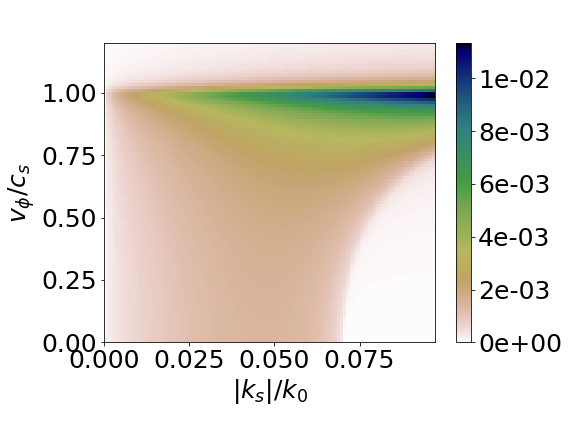
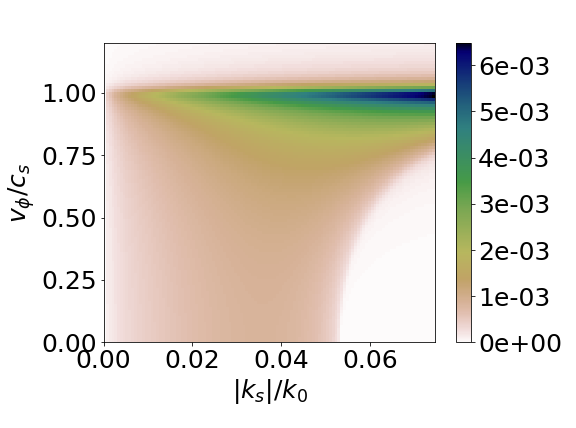
Updates from Overleaf

diff --git a/main.tex b/main.tex
@@ -16,7 +16,8 @@
 \usepackage{ stmaryrd }
 \begin{document}
 
-\title{Comparison between the fluid and kinetic frameworks for   addressing the growth of the filamentation or forward Brillouin instabilities}
+\title{ 
+Forward scattering of  laser in the hydrodynamic and kinetic frameworks }
 \author{C. Ruyer}\email{charles.ruyer@cea.fr}
 \affiliation{CEA, DAM, DIF, F-91297 Arpajon, France}
 \author{M. Grech}
@@ -39,7 +40,7 @@
 \section{Introduction}
 The SI unit system is used throughout this study and vectors are noted in bold symbols. 
 
-\section{Spatial growth of a forward diffused wave}
+\section{Spatial growth of the  forward scattering of a plane wave}\label{sec:plane}
 \subsection{Fluid and kinetic general dispersion relation}
 The simplest way to obtain the growth of the forward scattering of a light wave propagating in a plasma consists in combining in combining the perturbed Maxwell equations with a linearized plasma response, which can be either kinetic or fluid.
 We aim at deriving and comparing in this section both frameworks.
@@ -91,9 +92,10 @@ Note that we have  applied the so-called non-local correction [Eq. \eqref{eq:nl}
 From the combination of  Eqs. \eqref{eq:max2} with \eqref{eq:fd}, 
 for $D_\pm= (\omega_s-\omega_0)^2 - \omega_{pe}^2 -( \mathbf{k}_s-\mathbf{k}_0) ^2c^2 $, ensues
 \begin{equation}\label{eq:dispe}
-    D_+D_- = -\omega_{0}^2\alpha_{k/f}A_k\frac{\delta n_0}{n_c} (D_++D_-) \, ,
+    D_+D_- = -\frac{\omega_{0}^2}{2}\alpha_{k/f}A_k\frac{\delta n_0}{n_c} (D_++D_-) \, ,
 \end{equation}
 with $\delta n_0/n_c = (n_{e0}/n_c) \epsilon_0E_0^2/(n_c T_e)$.
+Note that we neglected the terms in $\delta n_e(\omega_s \pm 2\omega_0)$.
 In the kinetic framework, the above equation corresponds to Eq. (36) of Ref. \cite[]{POF_Cohen_79} in the limit $\vert k_s \lambda_{Di} \vert \ll 1$. In the fluid framework, these equations were derived in Refs. \cite[]{Kruer,phd_Michel,phd-Grech} \textcolor{red}{(?)}.
 
 \subsection{Spatial growth of the filamentation and of the forward Brillouin instability}
@@ -104,14 +106,14 @@ D_\pm = -\mathbf{k}_s^2c^2\pm 2(\omega_s\omega_0 - \mathbf{k}_s\cdot\mathbf{k}_0
 Equation \eqref{eq:dispe} thus becomes 
 \begin{equation}\label{eq:dispe2} 
 (\omega_s\omega_0 - \mathbf{k}_s\cdot\mathbf{k}_0 c^2)^2
-=\frac{\mathbf{k}_s^2c^2}{4}\left( \mathbf{k}_s^2c^2 - 2\omega_{pe}^2\alpha_{k/f}(v_\phi)A_k\frac{\delta n_0}{n_c} \right) 
+=\frac{\mathbf{k}_s^2c^2}{4}\left( \mathbf{k}_s^2c^2 - \omega_{0}^2\alpha_{k/f}(v_\phi)A_k\frac{\delta n_0}{n_c} \right) 
 \, .
 \end{equation}
 
 The spatial growth of the filamentation instability may be recovered when $\omega_s$=0 and assuming a $\mathbf{k}_s = k_s \hat{\mathbf{x}} +i\Gamma_F \hat{\mathbf{y}}$ ($\hat{\mathbf{x}}=\mathbf{k}_0 /\vert \mathbf{k}_0 \vert $ and  $\hat{\mathbf{y}}$  are unity vectors in the $x$ and $y$ directions respectively), and 
 \begin{equation}\label{eq:gf} 
 \Gamma_F^2
-=\frac{\mathbf{k}_s^2c^2}{4}\left( 2\omega_{0}^2\alpha_{k/f}(0)A_k\frac{\delta n_0}{n_c}- \mathbf{k}_s^2c^2 \right) 
+=\frac{\mathbf{k}_s^2c^2}{4}\left( \omega_{0}^2\alpha_{k/f}(0)A_k\frac{\delta n_0}{n_c}- \mathbf{k}_s^2c^2 \right) 
 \, .
 \end{equation}
 Note that $\alpha_f(0)=1$ and $\alpha_k(0)=Z_iT_e/(Z_iT_e+T_i)$.
@@ -121,13 +123,13 @@ $ k_{sx}$ and $k_{sy}$ purely real and complex respectively. Equation \eqref{eq:
 \begin{equation}\label{eq:dispe3} 
 \left(\frac{v_\phi}{\eta c} - 
 \frac{ k_{sx}}{\vert \mathbf{k}_s\vert }\right)^2
-=\frac{1}{4} \left( \frac{\mathbf{k}_s^2}{k_0^2} - 2\alpha_{k/f}(v_\phi)A_k\frac{\delta n_0}{\eta^2n_c} \right) 
+=\frac{1}{4} \left( \frac{\mathbf{k}_s^2}{k_0^2} - \alpha_{k/f}(v_\phi)A_k\frac{\delta n_0}{\eta^2n_c} \right) 
 \, ,
 \end{equation}
 where $\eta=\sqrt{1-n_{e0}/n_c}$ is the refraction index.
 Hence, $u =  k_{sx}/\vert \mathbf{k}_s\vert $ is solution of the following second order polynomial equation, 
 \begin{equation}\label{eq:dispe2poly} 
-u^2 -2\frac{v_\phi}{\eta c}u +\frac{v_\phi^2}{\eta^2 c^2}-\frac{1}{4}\left( \frac{\mathbf{k}_s^2}{k_0^2} - 2\alpha_{k/f}(v_\phi)A_k\frac{\delta n_0}{\eta^2n_c} \right) =0 
+u^2 -2\frac{v_\phi}{\eta c}u +\frac{v_\phi^2}{\eta^2 c^2}-\frac{1}{4}\left( \frac{\mathbf{k}_s^2}{k_0^2} - \alpha_{k/f}(v_\phi)A_k\frac{\delta n_0}{\eta^2n_c} \right) =0 
 \, .
 \end{equation}
 To leading order in  $\Im(k_{sx})/\vert \mathbf{k}_s\vert $ (where $\Im$ and $\Re$ are the imaginary and real part of a complex), $\vert \mathbf{k}_s\vert$ and $v_\phi$ may be considered to be purely real.
@@ -164,9 +166,86 @@ Kinetic (a,b) and fluid (c,d) resolution of Eq. \eqref{eq:dispe2poly} for  $I_0 
 \end{figure}
 Figures \ref{fig:dispe}(a-c)  illustrates the real and imaginary part of $k_{sx}/k_0$, solution of Eq. \eqref{eq:dispe2poly} as a function of the phase speed and of the wavevector amplitude, in both the kinetic (a,b) and fluid framework (c,d). The filamentation limit is recovered at $v_\phi=0$ and care has been taken to verify that, when $T_i\ll Z_iT_e$, both frameworks con\"incide. Moreover, in both calculations, $\Re[k_{sx}(v_\phi=0)]$ is vanishing as expected from the filamentation instability. As $v_\phi$ increases, one starts to enter in the forward Brillouin instability domain which peaks, for the mono-ion species case of Fig. \ref{fig:dispe}, around $(\vert k_s\vert/k_0, v_\phi/c_s) \simeq(0.03,1)$. Additionally, in both cases, the forward Brillouin spatial maximum  growth dominates the filamentation one. In the fluid framework, a much more peaked growth spectrum around  $ v_\phi/c_s\sim 1 $ is evidenced compared to the kinetic calculations. 
 
-Interestingly, the kinetic calculation allows to consider multiple ion plasmas such as CH  illustrated in Fig. \ref{fig:dispeCH}. In the fluid framework, we are usually constrained to use the averaged-ion approximation, which gives in the case of the fourwad Brillouin, qualitatively different behavior as the spatial growth peaks at $v_\phi/c_s \simeq 0.75$ and $1$ for (a) and (b) respectively. 
+Interestingly, the kinetic calculation allows to consider multiple ion plasmas such as CH  illustrated in Fig. \ref{fig:dispeCH}. In the fluid framework, we are usually constrained to use the averaged-ion approximation, which gives in the case of the forward Brillouin, qualitatively different behavior as the spatial growth peaks at $v_\phi/c_s \simeq 0.8$ and $1$ for (a) and (b) respectively. 
 
-For both Figs. \ref{fig:dispe} and \ref{fig:dispeCH}, from the kinetic framework ensues a  roughly twice smaller maximum growth rate than in the fluid framework. 
+For both Figs. \ref{fig:dispe} and \ref{fig:dispeCH},   from the kinetic framework ensues a  roughly twice smaller maximum forward Brillouin growth rate than in the fluid framework, although comparable results are obtained regarding the filamentation instability. 
+The growth of propagating ($\vert v_\phi\vert >0$) ion acoustic wave   is able to the scattered the pump wave and modify its spatial spectrum. As evidenced in Fig. \ref{fig:dispe}(a,d) and \ref{fig:dispeCH}(a,d) we expect a bro
+adening of the plane wave spatial spectrum  resulting in an cone angle of $k_s/k_0\sim 0.03-0.05$, corresponding to $\sim 2-3^o$.  
+
+The spatial (RPP) or temporal (SSD) of energetic laser pulses is commonly known to restrain the role of deleterious instabilities, such as the laser filamentation, on the propagation of the beam \cite[]{}. Indeed, as shown in this section, the most unstable wavelength, regarding the filamentation or the forward Brillouin instabilities, is of the order of ten   microns (for $\sim$ keV and 10\% critical density plasmas), thus smaller than the typical  speckle size   of a few microns   usually used in most energetic laser facilities.  
+Hence, the plane wave approximation used in obtaining Eq. \eqref{eq:max2} no longer holds and one expects a more stable pump propagation.
+Although, extensively studied in the fluid framework by mean of simulation tools \cite[]{}, to the best of our knowledge, no analytical attempts were made to estimate the growth of the forward scattering of an RPP pulse, especially in the kinetic framework. 
+We propose in next section to adapt the above analytical plane wave dispersion relations  to the propagation of energetic RPP pulse.
+
+\section{Forward scattering of a spatially smoothed laser pulse}
+The  beam model adopted here has been introduced in  Refs. \cite[]{POF_Schmitt_88,POF_Rose_93} and presents an electric field following
+ \begin{align}
+E_0(t,\mathbf{r})  = \frac{E_0}{N} \sum_{n,\vert k_{\perp}\vert<k_m }  \cos(k_0x - \omega_0t +\mathbf{k}_\perp \cdot \mathbf{r}_\perp +\Phi_{\mathbf{k}_\perp})\, , \label{eq:erpp}
+ \end{align}
+ where  $N$ is the number of diffracting elements and the phases $\Phi_{k_y}$ are  independent random variables taking the values $0$ or $\pi$ with equal probability.
+ For simplicity, we will assume a square phase plate that verifies $k_{\perp}(n) = n2k_m/N$ with $n$ an integer that verifies $n\in \llbracket - N/2 ,N/2 \rrbracket$ and with $k_m = k_0/(2f)$. 
+ Under these conditions, and for $\langle u\rangle$ representing the statistical average of $u$,  we note   that,
+ \begin{equation}\label{eq:d}
+ \langle e^{i\Phi_{k_1}+i\Phi_{k_2}}\rangle=\delta(k_1-k_2) \, .
+ \end{equation}
+
+ \begin{widetext}
+We will now follow the procedure introduced in Sec. \ref{sec:plane} while replacing the plane pump wave by the fields given by Eq. \eqref{eq:erpp}. Hence, we will start by writing the RPP electric field in Fourier space and enveloped around the laser frequency and wavevectors $\omega_0$ and $k_0$,
+\begin{align}
+E_0(\omega,\mathbf{k}) = \frac{E_0}{2N} \sum_{\ k_{\perp} }[ e^{i\Phi_{k_\perp}}\delta(\omega-\omega_0, \mathbf{k}-\mathbf{k}_\perp)    + e^{-i\Phi_{k_\perp}}\delta(\omega+\omega_0, \mathbf{k}+\mathbf{k}_\perp) ]
+\, , \label{eq:erppf}
+\end{align}
+ where $\mathbf{k}_\perp= k_0\hat{\mathbf{x}} +k_\perp \hat{\mathbf{y}}$ and the sum runs over $k_\perp$ for $\vert k_\perp\vert  <k_m$.
+ Combined with the perturbed Maxwell equations [Eq. \eqref{eq:max1}], we obtain
+ \begin{align}
+    (\omega_d^2 - \omega_{pe}^2 -\mathbf{k}_d^2c^2)\delta E(\omega_d,\mathbf{k}_d) = \frac{\omega_0^2}{2N} E_0 \sum_{\ k_{\perp} }   \left[e^{i\Phi_{k_\perp}}\frac{\delta n_e }{n_c}(\omega_d-\omega_0, \mathbf{k}_d-\mathbf{k}_\perp) +e^{-i\Phi_{k_\perp}}\frac{\delta n_e }{n_c}(\omega_d+\omega_0, \mathbf{k}_d+\mathbf{k}_\perp) \right] \, .\label{eq:maxrpp}
+\end{align}
+Likewise, the plasma linear response, either kinetic or fluid, involves a convolution product between $E_0(\omega_0,\mathbf{k}_\perp)$ and $\delta E(\omega_d,\mathbf{k}_d)$ which yields,
+\begin{align}
+   \frac{\delta n_e }{n_{e0}}(\omega_s,\mathbf{k}_s) = -\alpha_{k/f}(v_\phi) \frac{A_k\epsilon_0 E_0}{Nn_c T_e} \sum_{\ k_{\perp} }     \left[e^{i\Phi_{k_\perp}}\delta E(\omega_s-\omega_0, \mathbf{k}_s-\mathbf{k}_{\perp}) +e^{-i\Phi_{k_\perp}}\delta E(\omega_s+\omega_0, \mathbf{k}_s+\mathbf{k}_{\perp}) \right] \, ,\label{eq:fdrpp} 
+\end{align}
+When plugging Eq. \eqref{eq:maxrpp} into \eqref{eq:fdrpp}, two sums will appear, noted with two independent index, $k_1$ and $k_2$. Hence, as when  deriving Eq. \eqref{eq:dispe}, we will neglect the terms in $\delta n_e(\omega_s\pm 2\omega_0)$ that are considered too far from resonance. With $D_\pm(k_{1})= (\omega_s-\omega_0)^2 - \omega_{pe}^2 -( k_{sx}-k_0) ^2c^2 -( k_{sy}-k_{1}) ^2c^2$ and $\mathbf{k}_{1,2}= k_0\hat{\mathbf{x}} +k_{1,2} \hat{\mathbf{y}}$, we obtain
+\begin{align}
+   \frac{\delta n_e }{n_{e0}}(\omega_s,\mathbf{k}_s) = -\alpha_{k/f}(v_\phi)A_k \frac{\delta n_0}{n_c} \frac{\omega_0^2}{2N^2}\sum_{ k_{1} } \sum_{ k_{2} }        \left[ \frac{e^{i\Phi_{k_1}-i\Phi_{k_2}} }{D_-(k_{1})}\frac{\delta n_e }{n_{e0}}(\omega_s,\mathbf{k}_s-\mathbf{k}_{1}+\mathbf{k}_{2}) +\frac{e^{-i\Phi_{k_1}+i\Phi_{k_2}}}{D_+(k_{1})} \frac{\delta n_e }{n_{e0}}(\omega_s,\mathbf{k}_s+\mathbf{k}_{1}-\mathbf{k}_{2}) \right] \, ,\label{eq:fddrpp} 
+\end{align}
+ \end{widetext}
+In order to finalize the RPP dispersion relation, we will proceed to a statistical averaged using Eq. \eqref{eq:d}. On the right-hand-side, appears $\langle\exp(-i\Phi_{k_1}+i\Phi_{k_2})\delta n_e \rangle$ which can be recast as
+\begin{equation}
+\langle\exp(-i\Phi_{k_1}+i\Phi_{k_2})\delta n_e \rangle= \langle\exp(-i\Phi_{k_1}+i\Phi_{k_2}) \rangle\langle\delta n_e \rangle + \mathcal{C}\, , \label{eq:mthcalc}
+\end{equation}
+where $\mathcal{C}$ is the correlations   between  \mbox{$\exp(-i\Phi_{k_1}+i\Phi_{k_2})$} and $\delta n_e$. The combination of Eq. \eqref{eq:fddrpp} with \eqref{eq:mthcalc} shows that $\mathcal{C}\propto \delta n_0/n_c$ and therefore, to leading order in $\delta n_0/n_c$, $\mathcal{C}$ may  be neglected when  averaging   Eq. \eqref{eq:fddrpp} giving
+\begin{align}
+  1= -\alpha_{k/f}(v_\phi)A_k \frac{\delta n_0}{n_c} \frac{\omega_0^2}{2N}\sum_{ k_{1} }        \left[ \frac{1 }{D_-(k_{1})} +\frac{1}{D_+(k_{1})} \right] \, .\label{eq:disperpp} 
+\end{align}
+Provided the phase plate has a sufficient number of elements (\emph{i.e.} $N$ is large enough), we shall replace the discrete sum by a continuous one. To leading order 
+in  $\omega_s\ll\omega_0$, 
+\begin{equation}\label{eq:dpmk1}
+D_\pm(k_1) \simeq -\mathbf{k}_s^2c^2\pm 2(\omega_s\omega_0 - k_{sx}k_0 c^2-k_{sy} k_1 c^2) \, , 
+\end{equation} 
+so that,
+\begin{align}
+ \frac{1}{N} \sum_{ k_{1} }  \frac{1 }{D_\pm(k_{1})}  \simeq \frac{1}{2k_m} \int_{ -k_m }^{ k_m }       \frac{dk_1 }{D_\pm(k_{1})}  \, , \nonumber\\
+ \simeq \frac{\mp1}{4k_mk_{sy}c^2} \ln\left[
+ \frac{ -\mathbf{k}_s^2c^2\pm 2(\omega_s\omega_0 - k_{sx}k_0 c^2-k_{sy} k_m c^2)}{ -\mathbf{k}_s^2c^2\pm 2(\omega_s\omega_0 - k_{sx}k_0 c^2+k_{sy} k_m c^2)} \right] \, .\label{eq:sumint} 
+\end{align}
+The combination with Eq. \eqref{eq:disperpp} yields
+
+\begin{align}
+ \frac{-8k_mk_{sy}c^2}{\alpha_{k/f}(v_\phi)A_k \omega_0^2\delta n_0/n_c  } \nonumber\\
+ \simeq  \ln\left[
+ \frac{ (\mathbf{k}_s^2c^2-k_{sy} k_m c^2)^2 -4(\omega_s\omega_0 - k_{sx}k_0 c^2)^2}{ (\mathbf{k}_s^2c^2+k_{sy} k_m c^2)^2 -4(\omega_s\omega_0 - k_{sx}k_0 c^2)^2} \right] \, .\label{eq:disperpp2} 
+\end{align}
+In order to express the complex $k_{sx}$ as a function of the reals $v_\phi=\omega_s/\vert \mathbf{k}_s\vert $ and $\vert \mathbf{k}_s\vert $ (provided  $\vert k_{sx}\vert \ll \vert \mathbf{k}_s\vert$), we may use $\vert k_{sy} \vert  \simeq \vert \mathbf{k}_s\vert$, and divide both numerator and denominator of the logarithm argument by $k_0^2\vert \mathbf{k}_s^2\vert c^4$, which yields the following second order polynomial equation in $u =  k_{sx}/\vert \mathbf{k}_s\vert$,
+\begin{align}
+u^2 -2\frac{v_\phi}{\eta c}u +\frac{v_\phi^2}{\eta^2 c^2}-\frac{1}{4}A =0 
+\, , \nonumber\\
+A= \frac{1}{1-B}\left[ \left(\frac{\vert k_{s}\vert}{k_0}-\frac{1}{f}\right)^2-\left(\frac{\vert k_{s}\vert}{k_0}+\frac{1}{f}\right)^2B  \right]\, , \nonumber \\ 
+B =\exp\left(\dfrac{-8k_m \vert k_{s}\vert c^2}{\alpha_{k/f}(v_\phi)A_k \omega_0^2\delta n_0/n_c  }\right)\, . \label{eq:dispe2polyrpp} 
+\end{align}
+The last term of the left hand side of  Eqs. \eqref{eq:dispe2poly} and \eqref{eq:dispe2polyrpp} holds the only difference between plane wave and RPP dispersion relations. 
+As expected, a Taylor development of $A$ to first order in $1/f$, \emph{i.e.} for a vanishing  RPP beam spectral width, Eqs.  \eqref{eq:dispe2poly} and \eqref{eq:dispe2polyrpp} co\"incide. 
+
+Physically, when the speckle typical size, $f\lambda_0$, exceeds the most unstable filamentation wavelength ($\sim 10 \,\rm\mu m$ in Figs . \ref{fig:dispe} and  \ref{fig:dispeCH}), the pump wave is not smoothed enough, its spectral width not large enough, to ensure a good control its filamentation. 
 
 \section*{Acknowledgements}
 %We also admit the role of the confinement following the COVID19 plague for forcing us to take the time to finalize this theoretical work. This work has been done under the auspices of CEA-DAM. 
